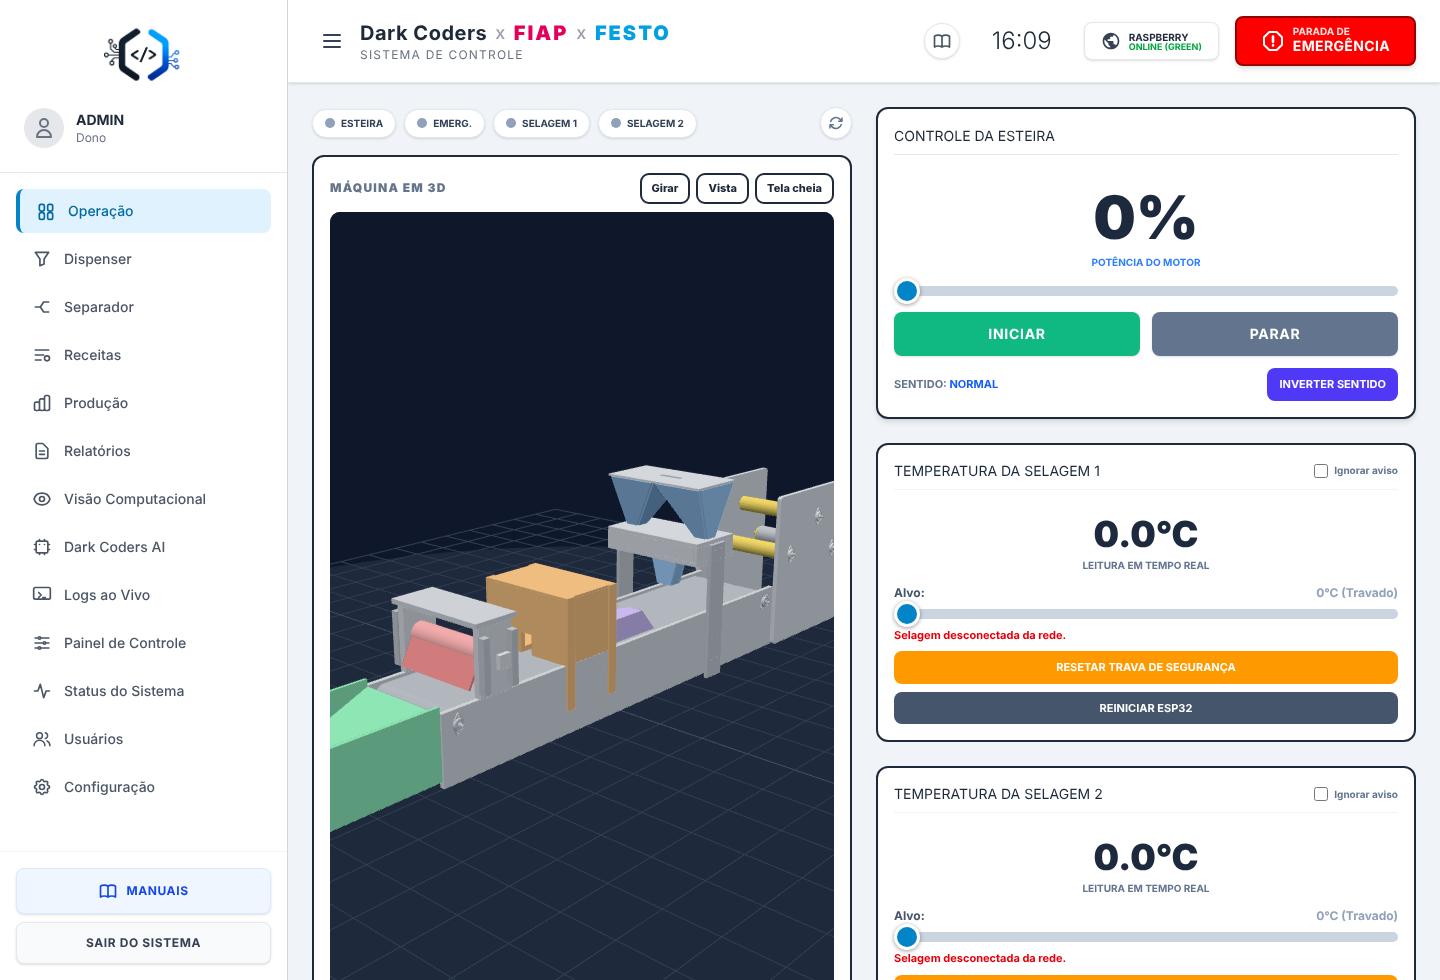
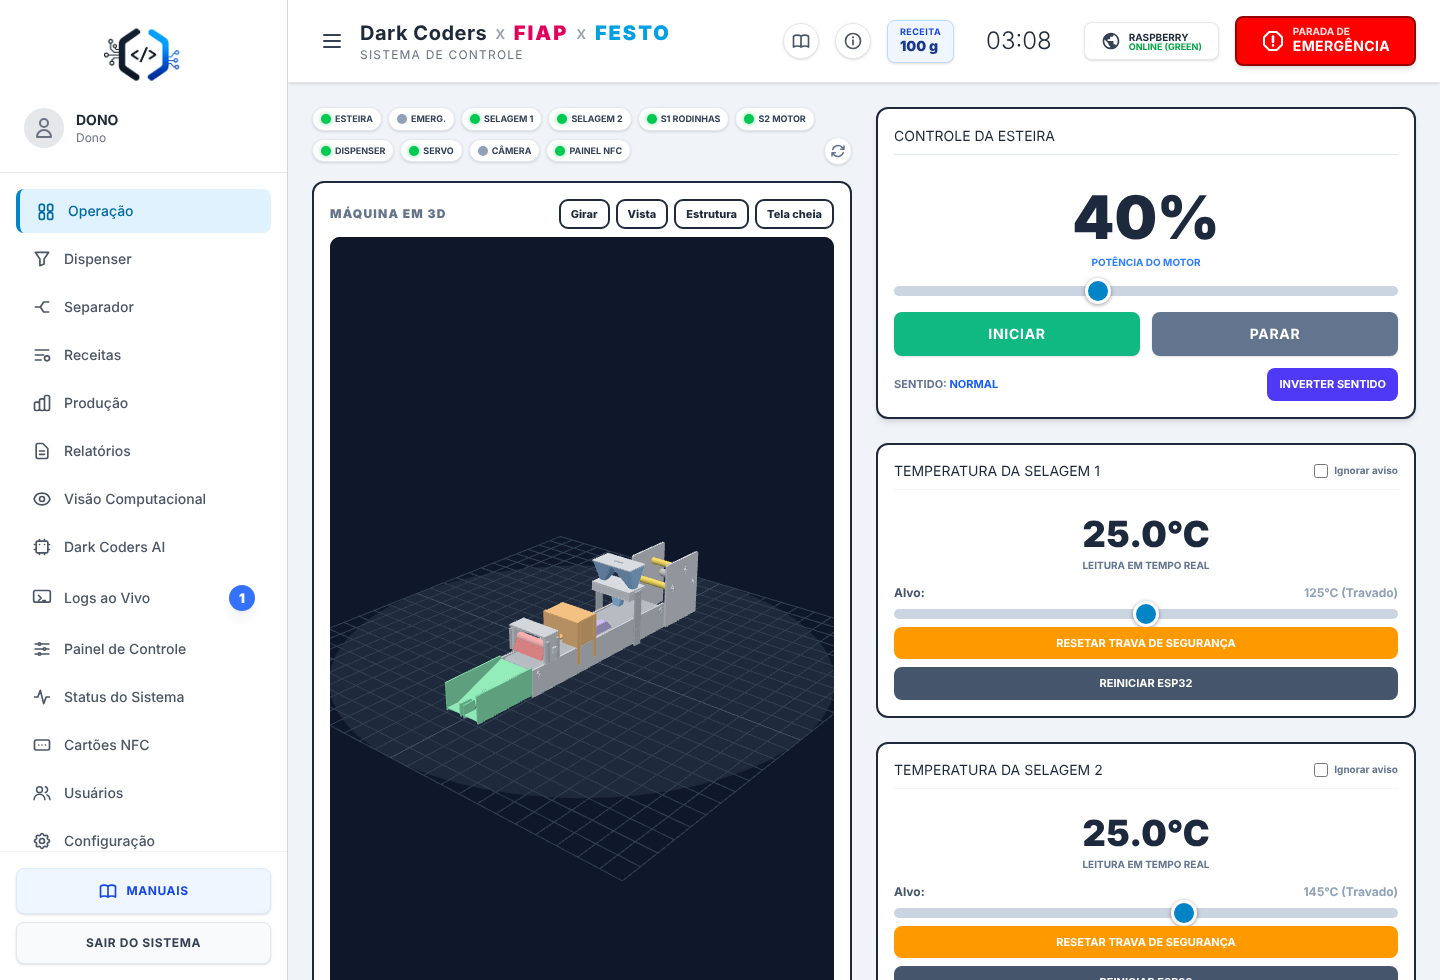
README reorganizado: emergência, NFC e Sobre nós em seções curtas, tópicos MQTT e variáveis completos, testes, prints novos (dashboard, NFC e Sobre nós)
Claude-Session: https://claude.ai/code/session_015jzdfWxrstErNGMTfszucj

diff --git a/README.md b/README.md
@@ -27,7 +27,7 @@ A linha de embalagem é composta por esteira, bobina de filme, dispenser, braço
 
 | Módulo | Descrição |
 |---|---|
-| Operação | Velocidade da esteira, temperatura das selagens, estado dos módulos e modelo 3D da máquina. |
+| Operação | Velocidade da esteira, temperatura das selagens, modelo 3D da máquina e LEDs de conexão de **todas as placas** (esteira, selagens, rodinhas, motor, dispenser, servo, câmera e painel NFC). O topo do site mostra sempre a **receita selecionada** (50, 100, 150 ou 200 g). |
 | Painel de Controle | Motores e aquecimento de cada selagem, sentido da esteira, reinício e reset de cada placa. Tem também a seção **Separador (servo)**: estado da conexão, teste esquerda/centro/direita, ângulos, velocidade, tempo aberto e liga/desliga do servo (somente Administrador e Dono). |
 | Dispenser | Seleção do grão e da quantidade (1/4, 1/2, 3/4 ou 1 volta do rotor) e acionamento da dosagem. |
 | Separador | Contagem e reconhecimento de produtos por câmera, com servo que desvia cada item. Inclui treinamento por classe e calibração de fundo. |
@@ -42,12 +42,6 @@ A linha de embalagem é composta por esteira, bobina de filme, dispenser, braço
 | Cartões NFC | Cadastro de cartões de Dono/Administrador que liberam a emergência e os botões do painel. |
 | Manuais | Manuais em PDF de cada módulo e da máquina completa. |
 
-A **Parada de Emergência** fica visível em todas as telas e também responde ao botão físico da esteira e à Alexa. Depois de acionada, **a máquina inteira fica travada** (esteira, selagens, dispenser, separador, receitas e botões MAIS/MENOS) até alguém clicar em **DESBLOQUEAR** no site. A trava vale para todos os aparelhos, continua se o servidor reiniciar, e a esteira e o servo também lembram dela se forem desligados.
-
-**Cartão NFC e painel físico.** Um ESP32 só para o painel (leitor RC522 ou PN532, buzzer, LEDs e 3 botões) manda o número do cartão por MQTT (`nfc/leitura`) e o servidor decide (`nfc/resultado`). Só cartão de Dono ou Administrador libera a emergência; passar o cartão também libera os botões **MAIS** e **MENOS** por 30 s (cada uso renova; variável `NFC_JANELA_MS`). O botão de **EMERGÊNCIA** do painel vale sempre. Três recusas seguidas bloqueiam o leitor por 30 s. Só o Dono cadastra e apaga cartões, na tela **Cartões NFC** (`/nfc`, Dono e Administrador); a tela mostra só o final de 4 dígitos. Desbloquear a emergência pelo site agora também exige Dono ou Administrador. Firmwares em [`firmware/`](firmware) e guia de montagem em [`docs/hardware/guia_painel_nfc.txt`](docs/hardware/guia_painel_nfc.txt). O número do cartão pode ser copiado por cartões "mágicos": serve para o projeto, não é segurança forte.
-
-A página pública [`/sobre`](views/sobre.html) (acessível sem login, pelo link "Sobre nós" da tela de login) tem menu fixo com as seções quem somos, o projeto (com galeria), a equipe (cartões com contatos), a jornada e o contato; a ordem e a visibilidade das seções e das pessoas vêm dos dados. O texto original fica em [`data/sobre.json`](data/sobre.json) e traz a versão, a ordem das seções, os integrantes (cada um com `mostrarContatos` e `visivel`, e os links como caixinhas com tipo, nome e endereço) e a jornada. As alterações salvas ficam em `data/sobre_editado.json` (fora do git, para o `git pull` nunca dar conflito), as fotos em `public/img/equipe/` e `public/img/projeto/`, e os 10 últimos backups em `data/sobre_backups/`. Para voltar a uma versão antiga na mão, copie um backup por cima de `data/sobre_editado.json` e reinicie o site. Os ícones dos links são SVG locais (`sobre_icones.json`) e todo texto é escapado na saída.
-
 <p align="center">
   <img src="docs/img/painel-controle.png" alt="Painel de Controle" width="440">
   <img src="docs/img/dispenser.png" alt="Dispenser" width="440">
@@ -59,6 +53,44 @@ A página pública [`/sobre`](views/sobre.html) (acessível sem login, pelo link
 <p align="center">
   <img src="docs/img/chat.png" alt="Dark Coders AI" width="440">
   <img src="docs/img/status-sistema.png" alt="Status do Sistema" width="440">
+</p>
+
+### Parada de emergência
+
+- O botão fica visível em **todas as telas**, e a emergência também pode vir do botão da esteira, do botão do painel ou da Alexa.
+- Depois de acionada, **a máquina inteira fica travada** (esteira, selagens, dispenser, separador, receitas e botões MAIS/MENOS) até um **Dono ou Administrador** liberar.
+- Liberar: botão **DESBLOQUEAR** no site (com confirmação) ou **cartão NFC** cadastrado. Depois de liberar, a esteira continua parada.
+- A trava vale para todos os aparelhos, continua se o servidor reiniciar, e a esteira e o servo lembram dela mesmo desligados.
+- Com a emergência ativa, **todas as telas ganham uma borda vermelha brilhando** (some sozinha ao liberar).
+
+### Cartão NFC e painel físico
+
+Um ESP32 só para o painel (leitor RC522 ou PN532, buzzer, LEDs e 3 botões: EMERGÊNCIA, MAIS e MENOS) manda o número do cartão por MQTT (`nfc/leitura`) e o **servidor decide** (`nfc/resultado`).
+
+- Cartão de **Dono ou Administrador**: libera a emergência (se ativa) e libera **MAIS** e **MENOS** por 30 s, com o LED verde aceso (cada uso renova; variável `NFC_JANELA_MS`).
+- A **EMERGÊNCIA** do painel vale sempre, com ou sem cartão. MAIS e MENOS sem cartão não fazem nada (1 bip médio).
+- 3 cartões recusados seguidos bloqueiam o leitor por 30 s. Sem Wi-Fi ou site, nada é liberado.
+- Só o **Dono** cadastra e apaga cartões, na tela **Cartões NFC** (`/nfc`); a tela mostra só o final de 4 dígitos.
+- Desbloquear a emergência pelo site exige Dono ou Administrador.
+- Limite: o número do cartão pode ser copiado por cartões "mágicos"; serve ao projeto, não é segurança forte.
+
+Firmwares em [`firmware/`](firmware) e montagem em [`docs/hardware/guia_painel_nfc.txt`](docs/hardware/guia_painel_nfc.txt).
+
+<p align="center">
+  <img src="docs/img/nfc.png" alt="Tela Cartões NFC" width="720">
+</p>
+
+### Página pública Sobre nós
+
+[`/sobre`](views/sobre.html) abre **sem login** (botão "i" ao lado de Manuais, item do menu no celular e link na tela de login).
+
+- Menu fixo com as seções: quem somos, o projeto (com galeria), a equipe (cartões com contatos), a jornada e o contato.
+- A ordem e a visibilidade das seções e das pessoas vêm dos dados; cada pessoa só mostra e-mail, telefone e links se estiver com "mostrar contatos" ligado e preenchido. Sem foto, aparecem as iniciais.
+- O texto original fica em [`data/sobre.json`](data/sobre.json). As alterações salvas ficam em `data/sobre_editado.json` (fora do git, para o `git pull` nunca dar conflito), as fotos em `public/img/equipe/` e `public/img/projeto/`, e os 10 últimos backups em `data/sobre_backups/`. Para voltar a uma versão antiga na mão, copie um backup por cima de `data/sobre_editado.json` e reinicie o site.
+- Ícones dos links em SVG local (`sobre_icones.json`) e todo texto escapado na saída.
+
+<p align="center">
+  <img src="docs/img/sobre.png" alt="Página Sobre nós" width="560">
 </p>
 
 ### Modelo 3D
@@ -89,7 +121,9 @@ A máquina pode ser visualizada em 3D no próprio site (Dashboard e tela Modelo 
 | Selagem 1 | `selagem/set_temperatura`, `selagem/ativar`, `selagem/dados`, `selagem/status_conexao`, `selagem/emergencia`, `selagem/motores/status` |
 | Selagem 2 | `selagem2/set_temperatura`, `selagem2/ativar`, `selagem2/dados`, `selagem2/status_conexao`, `selagem2/emergencia`, `selagem2/motor/status` |
 | Dispenser | `dispenser/dosar`, `dispenser/estado`, `dispenser/concluido`, `dispenser/status`, `dispenser/reiniciar`, `dispenser/emergencia` |
-| Separador | `separador/desviar`, `separador/config`, `separador/estado`, `separador/status`, `separador/teste`, `separador/emergencia` |
+| Separador | `separador/desviar`, `separador/config`, `separador/estado`, `separador/status`, `separador/teste`, `separador/emergencia`, `separador/liberar` |
+| Emergência e painel | `esteira/botao`, `esteira/estado_emergencia`, `esteira/liberar`, `painel/botao`, `painel/resultado` |
+| Cartão NFC | `nfc/leitura`, `nfc/resultado`, `nfc/status`, `nfc/reiniciar` |
 
 ## Instalação
 
@@ -109,7 +143,7 @@ cp .env.example .env
 npm start
 ```
 
-A aplicação fica disponível em `http://localhost:5000`. A porta está definida no início do [`server.js`](server.js) e o endereço do broker pode ser trocado pela variável `MQTT_BROKER`.
+A aplicação fica disponível em `http://localhost:5000`. A porta e o endereço do broker podem ser trocados pelas variáveis `PORT` e `MQTT_BROKER` (tabela abaixo).
 
 Na primeira execução, caso não exista `usuarios.json`, é criado o usuário `admin` com senha `admin`. **Altere a senha em Configuração antes de qualquer uso real.**
 
@@ -125,6 +159,10 @@ npm run dev    # o site, em http://localhost:5000
 
 O `dev` usa a pasta `data-teste/` (nada do `usuarios.json` real é tocado) e cria os logins `dono`, `adm`, `operario` e `visualizador`, todos com a senha `1234`. Para rodar os testes automáticos: `npm test`.
 
+### Testes automáticos
+
+`npm test` sobe o site com um broker MQTT falso e confere, de ponta a ponta: emergência travada, cartão NFC e botões do painel, perfis e permissões (inclusive o Visualizador), servo e visão, Alexa, página Sobre nós, manuais, modelo 3D, receita e LEDs no topo do Dashboard. Os testes ficam em [`tools/testes/`](tools/testes).
+
 ### Variáveis de ambiente
 
 | Variável | Descrição | Obrigatória |
@@ -133,12 +171,26 @@ O `dev` usa a pasta `data-teste/` (nada do `usuarios.json` real é tocado) e cri
 | `SESSION_SECRET` | Segredo das sessões e dos cookies. Se ausente, é gerado e salvo em `.session_secret`. | Não |
 | `MQTT_BROKER` | Endereço do broker MQTT. Padrão: `mqtt://192.168.4.1`. | Não |
 | `PORT` | Porta do site. Padrão: `5000`. | Não |
+| `NFC_JANELA_MS` | Tempo, em ms, que MAIS e MENOS ficam liberados depois de um cartão. Padrão: `30000` (mantenha igual ao `JANELA_MS` do firmware do painel). | Não |
+| `USUARIOS_JSON`, `EMERGENCIA_JSON`, `RECEITAS_JSON`, `CARTOES_NFC_JSON` | Caminho dos arquivos de dados, para testes ou para guardar fora da pasta do site. Padrão: arquivos na pasta do projeto. | Não |
 
 Para que o Node leia o `.env` automaticamente, use `npm run start:env`.
 
 ## Implantação no Raspberry Pi
 
 ### Atualização
+
+Com o repositório já clonado em `/root/site_esteira` (serviço `site_esteira`), o jeito mais simples é:
+
+```bash
+cd /root/site_esteira && git checkout main && git pull
+sudo systemctl restart site_esteira
+journalctl -u site_esteira -n 30 --no-pager
+```
+
+Depois, `Ctrl+Shift+R` no navegador. Rode `npm install` só se o `package.json` tiver mudado. Os firmwares dos ESP32 são gravados pelo Arduino IDE (veja [`firmware/LEIA-ME.md`](firmware/LEIA-ME.md)).
+
+Outra opção é o script abaixo, que também faz backup dos dados.
 
 O script [`atualizar.sh`](atualizar.sh) baixa a versão mais recente do GitHub preservando os dados da máquina: `usuarios.json`, receitas, fotos de referência, configurações, `.env` e logs. Em seguida instala as dependências e reinicia o serviço (pm2 ou systemd).
 
@@ -174,7 +226,14 @@ Recomendações adicionais estão em [SECURITY.md](SECURITY.md).
 | Operário | Acessa apenas as telas liberadas pelo Dono ou pelo Administrador. |
 | Visualizador | Só olha: acompanha em tempo real as telas liberadas e conversa com a IA, mas não controla nada. |
 
-O **Visualizador** é pensado para quem só precisa acompanhar a máquina (professores, visitantes). Ele vê todas as telas em modo somente leitura, inclusive Painel de Controle, Status do Sistema, Usuários e Cartões NFC (as telas sensíveis mostram os dados ocultos: sem o final dos cartões, sem linhas de log da rede e só nome e perfil dos usuários). Não aciona velocidade, temperatura, receitas, dosagem, servo, ajustes da visão nem a emergência (o botão fica escondido e aparece só um aviso "Máquina travada" quando há emergência), e não cria nem altera usuários. A IA responde perguntas para ele, mas não executa comandos. Só o Dono cria Visualizadores e escolhe, em **Usuários → Telas**, quais das 12 telas cada um enxerga (por padrão todas). O tutorial começa sozinho em **todo** login do Visualizador (pular vale só para aquela sessão). O bloqueio é feito no servidor (HTTP e socket), não só escondendo botões, e as tentativas bloqueadas ficam nos Logs.
+O **Visualizador** é pensado para quem só precisa acompanhar a máquina (professores, visitantes):
+
+- Vê **todas as telas** em modo somente leitura, inclusive Painel de Controle, Status do Sistema, Usuários e Cartões NFC. As telas sensíveis mostram os dados ocultos: sem o final dos cartões, sem linhas de log da rede e só nome e perfil dos usuários.
+- Não aciona nada: velocidade, temperatura, receitas, dosagem, servo, ajustes da visão e emergência (o botão fica escondido; aparece só o aviso "Máquina travada"). Também não cria nem altera usuários.
+- A IA responde perguntas para ele, mas não executa comandos.
+- O Dono cria Visualizadores e escolhe, em **Usuários → Telas**, quais das 12 telas cada um enxerga (por padrão todas).
+- O tutorial começa sozinho em **todo** login dele (pular vale só para aquela sessão).
+- O bloqueio é feito no servidor (HTTP e socket), não só escondendo botões, e as tentativas bloqueadas ficam nos Logs.
 
 **Tutorial:** o roteiro do tour guiado fica em [`public/js/tutorial-roteiro.js`](public/js/tutorial-roteiro.js) (um passo por item, com a tela, o destaque e o perfil que o vê). Para os demais perfis ele abre na primeira vez, e **Rever tutorial** fica em Configurações e no Chat. A IA usa os textos da pasta `knowledge/` (recarregados sozinhos ao salvar) e conhece o estado ao vivo: emergência, leitor NFC, janela dos botões MAIS/MENOS, receita atual e servo.
 
@@ -210,11 +269,13 @@ O modelo de interação da skill está em [`alexa/modelo_de_interacao.json`](ale
 .
 ├── server.js              Servidor: rotas, MQTT, Socket.IO, Alexa e IA
 ├── separador_engine.js    Contagem e desvio de produtos do separador
+├── sobre_dados.js         Dados da página Sobre nós (validação, versões e backups)
+├── sobre_icones.json      Ícones SVG locais dos links
 ├── atualizar.sh           Atualização do Raspberry Pi
 ├── alexa/                 Modelo de interação da skill da Alexa
 ├── firmware/              Códigos dos ESP32 (Arduino IDE)
 ├── tools/                 Preview local, testes automáticos e instaladores antigos
-├── data/                  Textos editáveis do site (página Sobre nós)
+├── data/                  Texto da página Sobre nós
 ├── views/                 Telas (templates Nunjucks)
 ├── public/                Arquivos estáticos, bibliotecas e modelo 3D
 ├── knowledge/             Base de conhecimento do assistente
@@ -240,8 +301,9 @@ Os manuais em PDF ficam em [`manuais/`](manuais) e também podem ser baixados pe
 | Selagem 2 | [`Manual_Selagem2_FlowPack.pdf`](manuais/Manual_Selagem2_FlowPack.pdf) |
 | Cartão NFC e acesso | [`Manual_NFC_FlowPack.pdf`](manuais/Manual_NFC_FlowPack.pdf) |
 | Botões e painel | [`Manual_Botoes_Painel_FlowPack.pdf`](manuais/Manual_Botoes_Painel_FlowPack.pdf) |
+| Alexa (comandos de voz) | `Manual_Alexa_FlowPack.pdf` (em breve) |
 
-Já está cadastrado, esperando o PDF (aparece "PDF ainda não adicionado" até o arquivo existir): `Manual_Alexa_FlowPack.pdf`.
+O manual da Alexa já está cadastrado: enquanto o PDF não existir na pasta, a entrada aparece como "PDF ainda não adicionado".
 
 **Como adicionar um manual:** copie o PDF para a pasta `manuais/` com o nome exato acima. Ele passa a abrir sozinho, sem reiniciar o site (a existência do arquivo é conferida a cada acesso).
 Para um manual novo, acrescente uma linha na lista `LISTA_MANUAIS` do `server.js` (id, título, arquivo e descrição).
